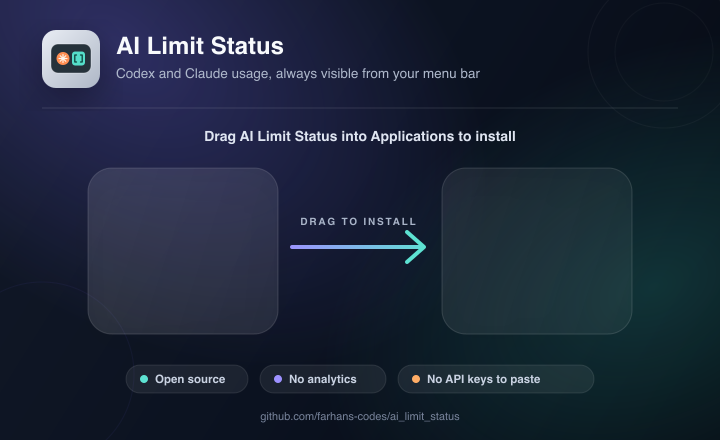
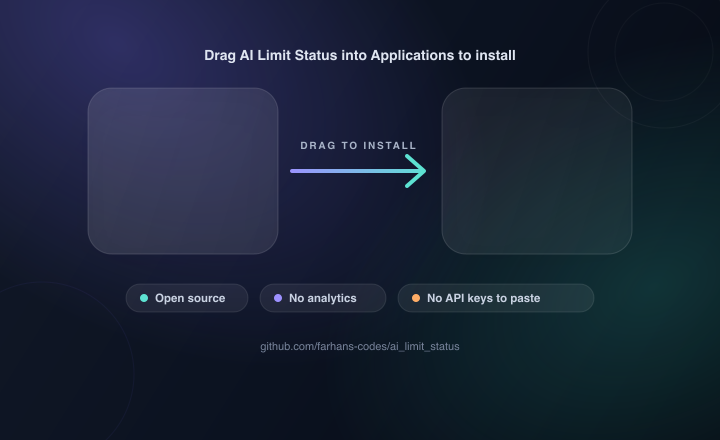
fix: restore macOS DMG background on Tahoe

diff --git a/installer/macos/dmg-settings.py b/installer/macos/dmg-settings.py
@@ -11,7 +11,6 @@ compression_level = 9
 
 files = [(application, app_name)]
 symlinks = {"Applications": "/Applications"}
-hide_extensions = [app_name]
 
 background = background_image
 window_rect = ((120, 120), (720, 440))
@@ -34,6 +33,6 @@ text_size = 13
 icon_size = 96
 
 icon_locations = {
-    app_name: (183, 250),
-    "Applications": (537, 250),
+    app_name: (183, 171),
+    "Applications": (537, 171),
 }

diff --git a/README.md b/README.md
@@ -118,8 +118,6 @@ Read the complete [privacy statement](PRIVACY.md) and
 - Provider CLIs and usage endpoints can change without notice and temporarily
   break usage detection.
 - Claude usage currently depends on an OAuth usage endpoint used by Claude Code.
-- macOS Tahoe 26 can ignore custom Finder backgrounds in mounted DMG windows;
-  the drag-to-Applications installation still works normally.
 - Code signing and notarization status can differ between releases; always read
   the release notes.
 - Windows release builds currently target x64-compatible systems.
